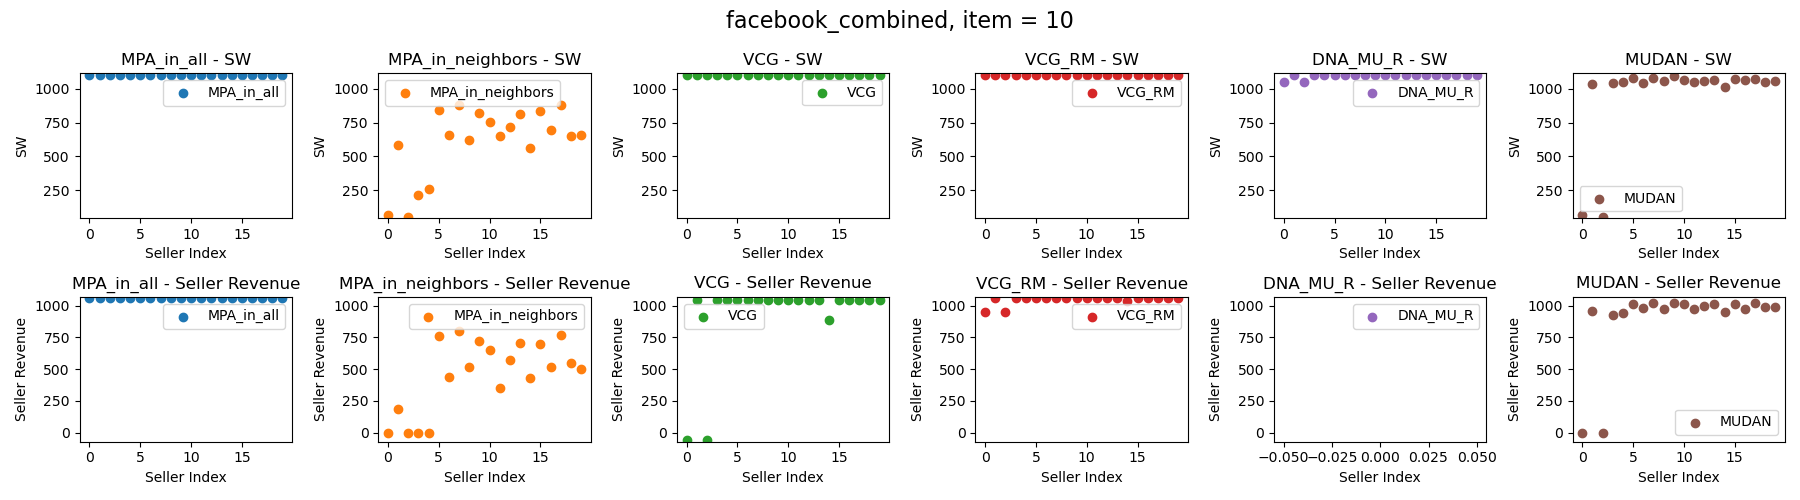
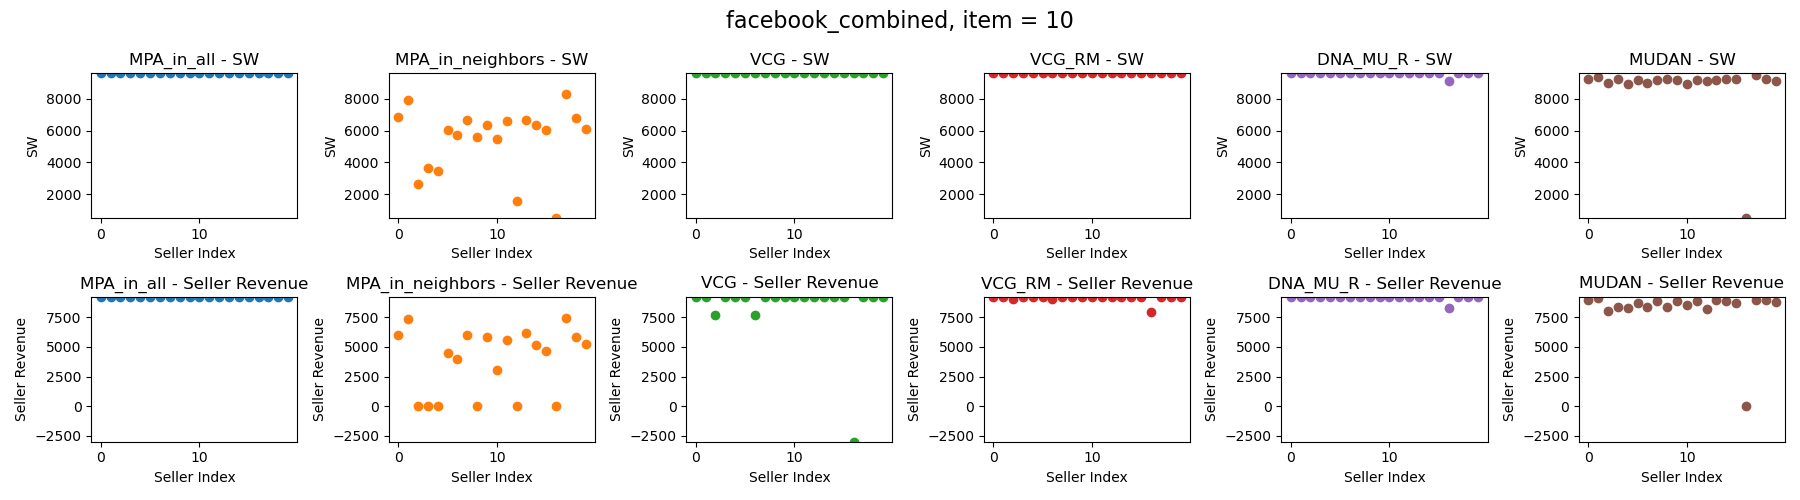
code optimization

diff --git a/hom_single.py b/hom_single.py
@@ -174,7 +174,7 @@ def DNA_MU_R(graph: dict, valuations: dict, item_count: int, seller: int):
     def get_allocation_i(i: int, valuation_i=None):
         new_valuations = copy.deepcopy(valuations)
         if i != None:
-            new_valuations[i] = valuation_i
+            new_valuations[i] = valuation_i + 0.01
 
         k = item_count
         allocation_i = []
@@ -189,23 +189,22 @@ def DNA_MU_R(graph: dict, valuations: dict, item_count: int, seller: int):
         return allocation_i
     
     allocation = get_allocation_i(None)
-
     for i in allocation:
-        # valuation_max = valuations[i]
-        # valuation_min = 0
-        # while(True):
-        #     if (valuation_max == valuation_min) or \
-        #         ((valuation_max - valuation_min == 1) and (i not in get_allocation_i(i, valuation_min))):   
-        #         break
+        valuation_max = valuations[i]
+        valuation_min = 0
+        while(True):
+            if (valuation_max == valuation_min) or \
+                ((valuation_max - valuation_min == 1) and (i not in get_allocation_i(i, valuation_min))):   
+                break
 
-        #     valuation_mid = (valuation_max + valuation_min) // 2
-        #     if i in get_allocation_i(i, valuation_mid):
-        #         valuation_max = valuation_mid
-        #     else:
-        #         valuation_min = valuation_mid
+            valuation_mid = (valuation_max + valuation_min) // 2
+            if i in get_allocation_i(i, valuation_mid):
+                valuation_max = valuation_mid
+            else:
+                valuation_min = valuation_mid
                 
-        # payments[i] = valuation_max
-        payments[i] = np.nan
+        payments[i] = valuation_max
+        # payments[i] = np.nan
        
     SW = sum(valuations[i] for i in allocation)
     seller_revenue = sum(payments.values())
@@ -279,13 +278,6 @@ def MUDAN(graph: dict, valuations: dict, item_count: int, seller: int, graph_for
         payments[w] = 0 if len(buyers_sort_in_E)<m+1 else buyers_sort_in_E[m][1]
         m -= 1
 
-        # print("A", A)
-        # print("P", P)
-        # print("W", W)
-        # print("visited",visited)
-        # print("payments",payments)
-        # print()
-
         if P == W:
             break
     
@@ -305,6 +297,7 @@ if __name__ == "__main__":
     for file in graph_files:
         graph = dataset.get_graph('./dataset/'+file+'.txt')
         valuations = dataset.generate_valuations(graph, item_count, "hom_single")
+        dataset.draw_valuations_distribution(valuations, f'./figure/hom_single/{file}_valuations.png')
         sellers = dataset.generate_sellers(graph, seller_count)
         print(file, sellers)
         mechanisms = [MPA_in_all, MPA_in_neighbors, VCG, VCG_RM, DNA_MU_R, MUDAN]
@@ -336,7 +329,6 @@ if __name__ == "__main__":
             axes[0, i].set_title(f'{mechanisms[i].__name__} - SW')
             axes[0, i].set_xlabel('Seller Index')
             axes[0, i].set_ylabel('SW')
-            axes[0, i].legend()
 
             sw_min.append(min(sw_data))
             sw_max.append(max(sw_data))
@@ -347,7 +339,6 @@ if __name__ == "__main__":
             axes[1, i].set_title(f'{mechanisms[i].__name__} - Seller Revenue')
             axes[1, i].set_xlabel('Seller Index')
             axes[1, i].set_ylabel('Seller Revenue')
-            axes[1, i].legend()
 
             sr_min.append(min(sr_data))
             sr_max.append(max(sr_data))
@@ -365,15 +356,3 @@ if __name__ == "__main__":
         plt.tight_layout()
         plt.savefig(f'./figure/hom_single/{file}_plot.png')
         plt.close()
-
-
-    # item_count = 3
-    # seller = 's'
-    # graph = {'s':['a','b'], 'a':['s','h'], 'b':['s','c'], 'c':['b','d'], 'd':['c','e','i'],'e':['d'],'i':['d'],'h':['a']}
-    # valuations = {'s':10086,'a':3,'b':1,'c':2,'d':100,'e':5,'h':2,'i':4}
-    # print(MPA_in_all(graph, valuations, item_count, seller))
-    # print(MPA_in_neighbors(graph, valuations, item_count, seller))
-    # print(VCG(graph, valuations, item_count, seller))
-    # print(VCG_RM(graph, valuations, item_count, seller))
-    # print(DNA_MU_R(graph, valuations, item_count, seller))
-    # print(MUDAN(graph, valuations, item_count, seller))

diff --git a/dataset.py b/dataset.py
@@ -1,5 +1,5 @@
 import random
-import numpy as np
+import matplotlib.pyplot as plt
 
 def get_graph(file: str): 
     graph = {}
@@ -18,21 +18,12 @@ def get_graph(file: str):
     return graph
 
 
-# def get_valuations_from_file(file: str, item_count: int):
-#     valuations = np.load(file,allow_pickle=True).item()
-#     for i in valuations.keys():
-#         valuation = valuations[i] + [0 for _ in range(item_count-len(valuations[i]))]
-#         valuations[i] = valuation
-
-#     return valuations
-
-
 def generate_valuations(graph: dict, item_count: int, auction_type):
     valuations = {}
     match auction_type:
         case "hom_single":
             for i in graph:
-                random_float= random.gauss(50,20)
+                random_float= random.gauss(500,150)
                 valuations[i] = max(0, round(random_float))
         case "hom_mult":
             for i in graph:
@@ -40,11 +31,12 @@ def generate_valuations(graph: dict, item_count: int, auction_type):
                 valuation = [random.randint(0, 1000) for _ in range(demand_count)] + [0 for _ in range(item_count-demand_count)]
                 valuation.sort(reverse=True)
                 valuations[i] = valuation
-        case 3:
+        case "heter_single":
             for i in graph:
-                item_demand = [random.randint(0, 1) for _ in range(item_count)] 
-                valuation = random.randint(0,1000)
-                valuations[i] = (valuation, item_demand)
+                item_demand = [random.randint(0, 1) for _ in range(item_count)]
+                demand_count = item_demand.count(1)
+                random_float = random.gauss(500,150) * demand_count / item_count
+                valuations[i] = (max(0, round(random_float)), item_demand)
         case 4:
             pass
     return valuations
@@ -53,3 +45,16 @@ def generate_valuations(graph: dict, item_count: int, auction_type):
 def generate_sellers(graph: dict, seller_count: int):
     return random.sample(list(graph.keys()), seller_count)
 
+
+def draw_valuations_distribution(valuations: dict, path):
+    max_val = max(valuations.values())
+    bin_width = 10
+    bins = [i * bin_width for i in range(int(max_val / bin_width) + 2)]
+
+    # 绘制直方图
+    plt.hist(valuations.values(), bins=bins)
+    plt.title('Histogram of Valuations')
+    plt.xlabel('Valuation')
+    plt.ylabel('Frequency')
+    plt.savefig(path)
+    plt.close()

diff --git a/hom_mult.py b/hom_mult.py
@@ -39,7 +39,7 @@ def get_priority_mult(i: int, graph: dict, priority_type, visited: set, seller: 
     return hom_single.get_priority(i[0], graph, priority_type, new_visited, seller)
 
 
-def MUDAN_m(graph: dict, valuations: dict, item_count: int, seller: int, priority_type = "new_agent"):
+def MUDAN_m(graph: dict, valuations: dict, item_count: int, seller: int, priority_type):
     generalized_graph, generalized_valuations = Generalized_graph_and_valuations(graph, valuations, item_count, seller)
     MUDAN_allocation, MUDAN_payments, SW, seller_revenue = hom_single.MUDAN(generalized_graph, generalized_valuations, item_count, seller, graph, get_priority_mult, priority_type)
     allocation = {}
@@ -154,6 +154,7 @@ if __name__ == "__main__":
     priority_count = len(priority_types)
     for file in graph_files:
         fig, axes = plt.subplots(2, all_count, figsize=(3 * all_count, 5))
+        fig.suptitle(f'{file}, item = {item_count}', fontsize=16)
 
         sw_min = []
         sw_max = []
@@ -194,16 +195,11 @@ if __name__ == "__main__":
         global_sr_max = max(sr_max)
 
         for i in range(all_count):
-            axes[0,i].set_ylim(global_sw_min-10, global_sw_max+10)
-            axes[1,i].set_ylim(global_sr_min-10, global_sr_max+10)
+            axes[0,i].set_ylim(global_sw_min-10, global_sw_max*1.05)
+            axes[1,i].set_ylim(global_sr_min-10, global_sr_max*1.05)
 
         plt.tight_layout()
         plt.savefig(f'./figure/hom_mult/{file}_plot.png')
         plt.close()
-
-#     graph = {'s':['a','b','c','h'], 'a':['s','d','e'],'b':['s','e','f'], 'c':['s','f'],'d':['a','g'],'e':['a','b'],'f':['b','c'],'g':['d'],'h':['s']}
-#     valuations = {'a':(10,9,8),'b':(6,5,0),'c':(7,6,3),'d':(5,3,2),'e':(4,2,1),'f':(9,7,0),'g':(12,11,0),'h':(2,1,1)}
-    
-#     MUDAN_m(graph, valuations, 3, 's', priority_type = 2)
 
 
